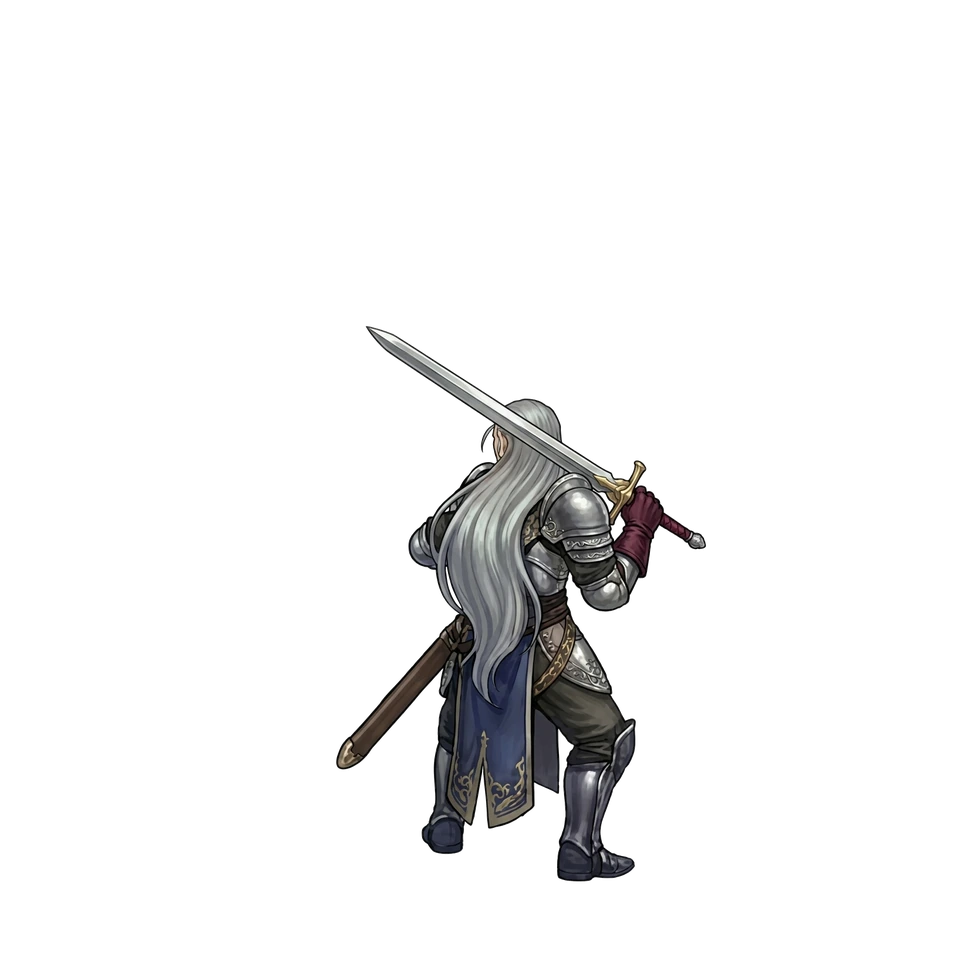
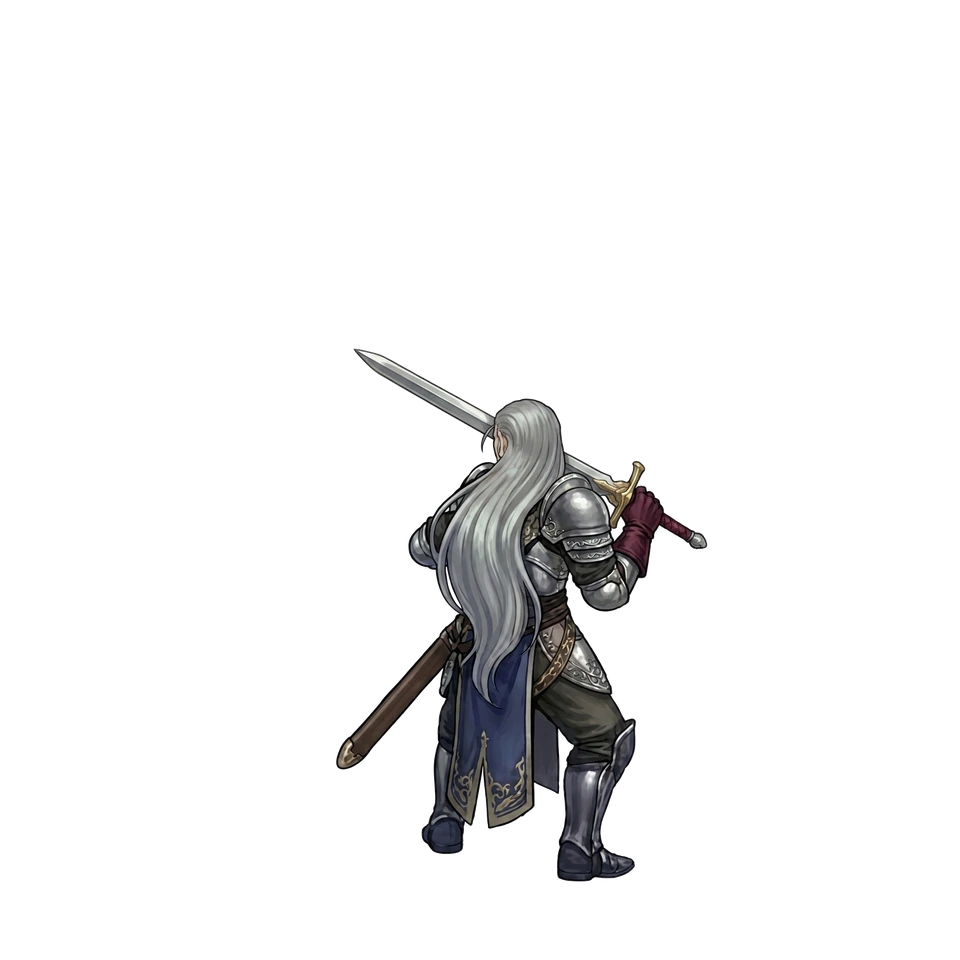
Fix #034 Teno F2/F3 sword z-depth occlusion (in front of chest, v79)
- #034 Teno / Tino `天火劍柱` (`u_034/ranged_{1,2}.webp` + `ranged_sheet.jpg`):
  * F2 (`ranged_1.webp`): sword blade now sits IN FRONT of his head/chest
    (far side away from our rear-view camera), occluded cleanly behind his
    silver hair crown & back-of-head matching 1995 DOS `dos_ranged_ref.jpg`.
  * F3 (`ranged_2.webp`): inverted reverse-grip sword now sits IN FRONT of his
    head/chest (far side away from our rear-view camera), occluded behind BOTH
    his silver hair dome (over the right crossguard & blade base) AND his left
    layered steel pauldron, emerging cleanly below the left arm angling down-left.
- Verified `#FF00DC` magenta close-ups (0 white pockets, 0 armor specular
  pinholes, 0 edge clips), `tsc && vite build`, and live Chromium VFX Lab
  F1-F4 sequence (`pageErr=0, consoleErr=0, http4xx=0`). Bumped `?v=78` -> `?v=79`.

Changed region(s): [[0.375, 0.3438, 0.6875, 0.5625], [0.6875, 0.5312, 0.75, 0.5625]]

diff --git a/src/gallery.ts b/src/gallery.ts
@@ -1191,7 +1191,7 @@ class MappingGalleryApp {
                   <div>
                     <div class="mono-tag" style="font-size:10px; color:#fde047; margin-bottom:2px;">💥 Crit Cut-In</div>
                     <img
-                      src="assets/vfx_lab/units/u_${String(entry.id).padStart(3, '0')}/cutin.jpg?v=78"
+                      src="assets/vfx_lab/units/u_${String(entry.id).padStart(3, '0')}/cutin.jpg?v=79"
                       loading="lazy"
                       alt="${entry.nameZh} Cut-In"
                       style="width:100%; aspect-ratio:16/9; object-fit:cover; border-radius:5px; border:1px solid #334155; background:#05080f;"
@@ -1200,7 +1200,7 @@ class MappingGalleryApp {
                   <div>
                     <div class="mono-tag" style="font-size:10px; color:#7dd3fc; margin-bottom:2px;">🖼 HD 6-Frame Sheet</div>
                     <img
-                      src="assets/vfx_lab/units/u_${String(entry.id).padStart(3, '0')}/nb6_sheet.jpg?v=78"
+                      src="assets/vfx_lab/units/u_${String(entry.id).padStart(3, '0')}/nb6_sheet.jpg?v=79"
                       loading="lazy"
                       alt="${entry.nameZh} 6-Frame Sheet"
                       style="width:100%; aspect-ratio:16/9; object-fit:contain; border-radius:5px; background:#ffffff; border:1px solid #334155;"

diff --git a/src/ui/vfxLab.ts b/src/ui/vfxLab.ts
@@ -277,7 +277,7 @@ function loadImg(url: string): Promise<HTMLImageElement> {
   });
 }
 
-const VFX_ASSET_VERSION = '?v=78';
+const VFX_ASSET_VERSION = '?v=79';
 
 function enrichUnitMetadataFromGameData(assets: AssetManager, entry: VfxManifestUnitEntry): VfxManifestUnitEntry {
   const dex = assets.gameData.unitDex?.[entry.uid];
